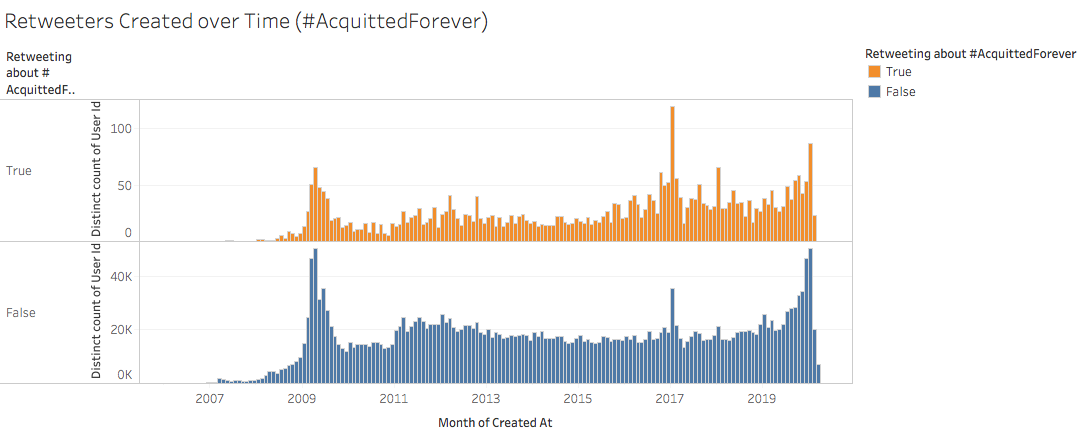
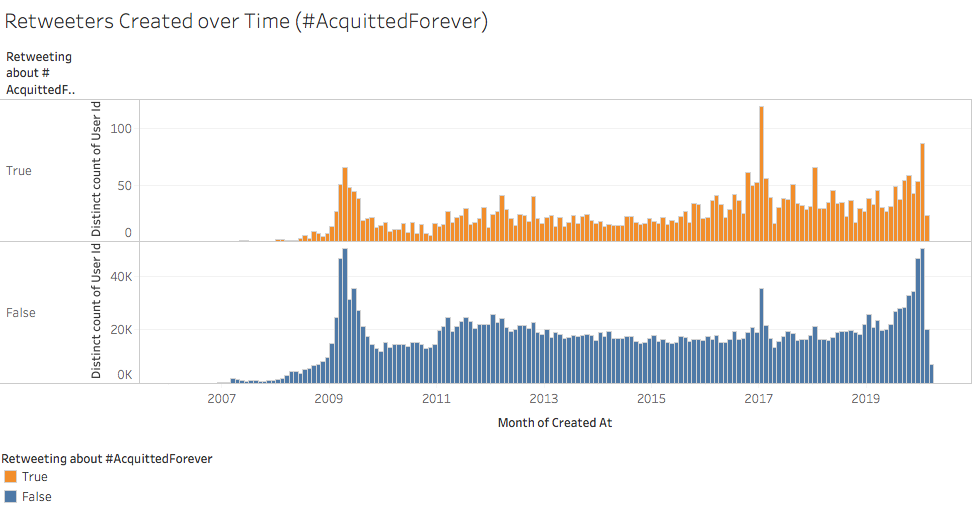
Save images with legend on bottom so we can do easier visual time axis comparisons across charts

diff --git a/NOTES.md b/NOTES.md
@@ -880,3 +880,22 @@ CREATE TABLE IF NOT EXISTS impeachment_production.retweeter_details as (
   JOIN impeachment_production.user_details d ON d.user_id = subq.user_id
 )
 ```
+
+![](workbooks/retweeter_details/users_created.png)
+
+![](workbooks/retweeter_details/users_created_screen_name_changers.png)
+
+![](workbooks/retweeter_details/users_created_name_changers.png)
+
+By topic:
+
+![](workbooks/retweeter_details/users_created_topic_acquitted_forever.png)
+![](workbooks/retweeter_details/users_created_topic_facts_matter.png)
+![](workbooks/retweeter_details/users_created_topic_ig_hearing.png)
+![](workbooks/retweeter_details/users_created_topic_ig_report.png)
+![](workbooks/retweeter_details/users_created_topic_impeach_and_convict.png)
+![](workbooks/retweeter_details/users_created_topic_impeach_and_remove.png)
+![](workbooks/retweeter_details/users_created_topic_maga.png)
+![](workbooks/retweeter_details/users_created_topic_not_above_the_law.png)
+![](workbooks/retweeter_details/users_created_topic_senate_hearing.png)
+![](workbooks/retweeter_details/users_created_topic_sham_trial.png)
